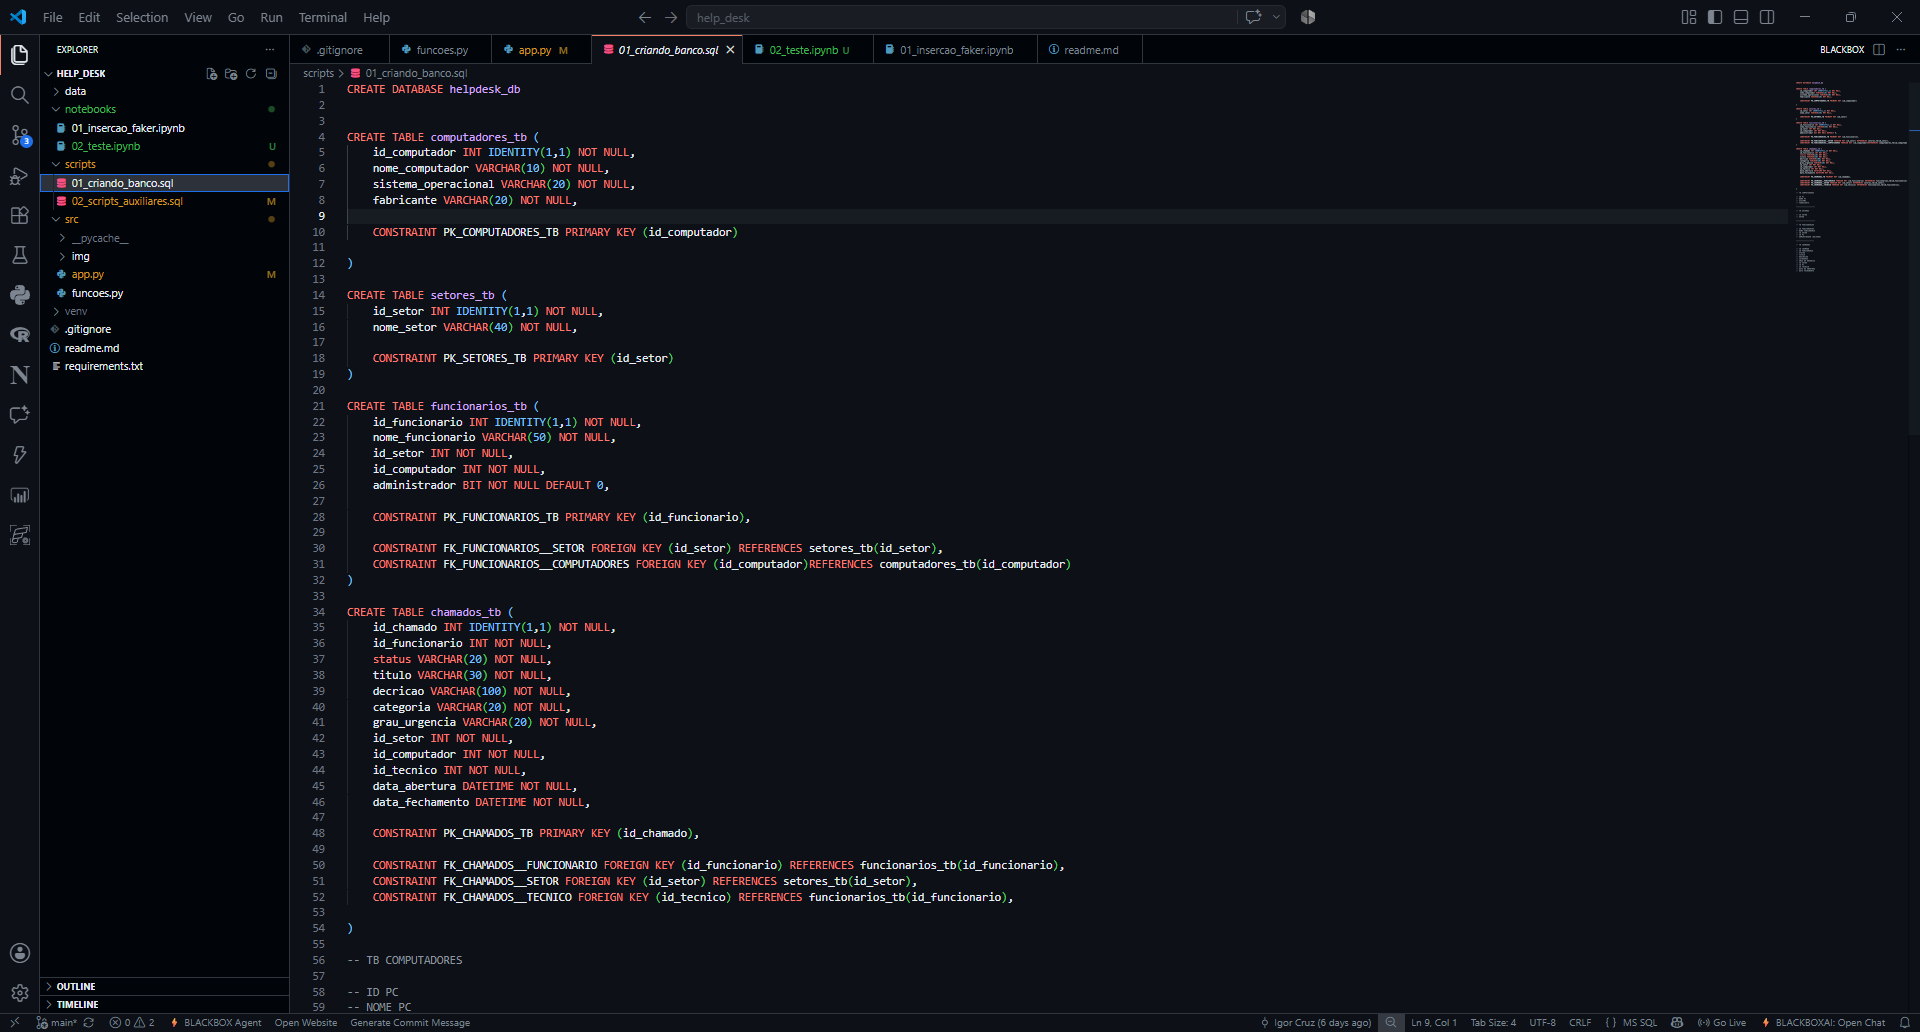
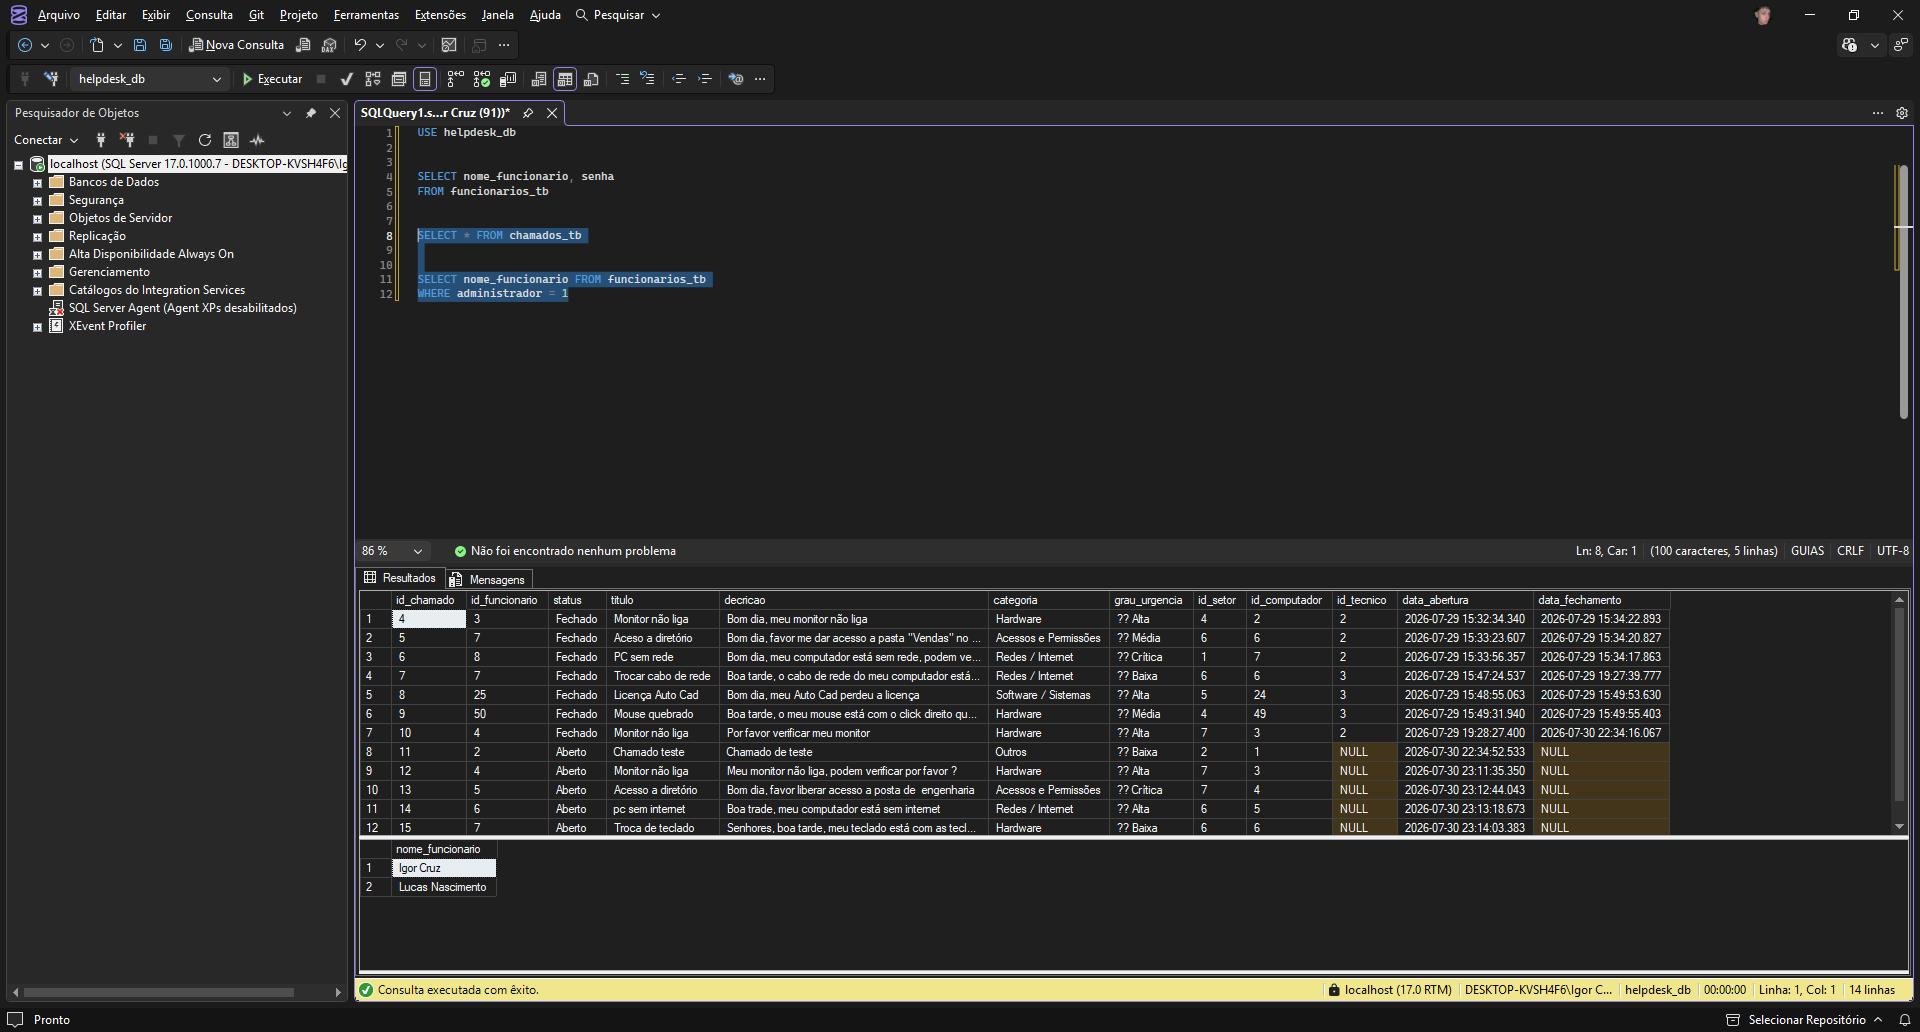
Subindo alterações nas imagens utilizadas no card do Help Desk

diff --git a/js/github.js b/js/github.js
@@ -42,7 +42,7 @@ document.addEventListener("DOMContentLoaded", () => {
             description: "O Help Desk é um sistema desenvolvido para centralizar e gerenciar chamados de suporte técnico, proporcionando maior organização e acompanhamento em tempo real.",
             githubUrl: "https://github.com/devigorll/help_desk",
             images: [
-                "assets/images/help_desk_p/stream_help_desk.png",
+                "assets/images/help_desk_p/inicio_helpdesk.png",
                 "assets/images/help_desk_p/app_help_desk.png",
                 "assets/images/help_desk_p/readme_help_desk.png",
                 "assets/images/help_desk_p/banco_help_desk.png",
